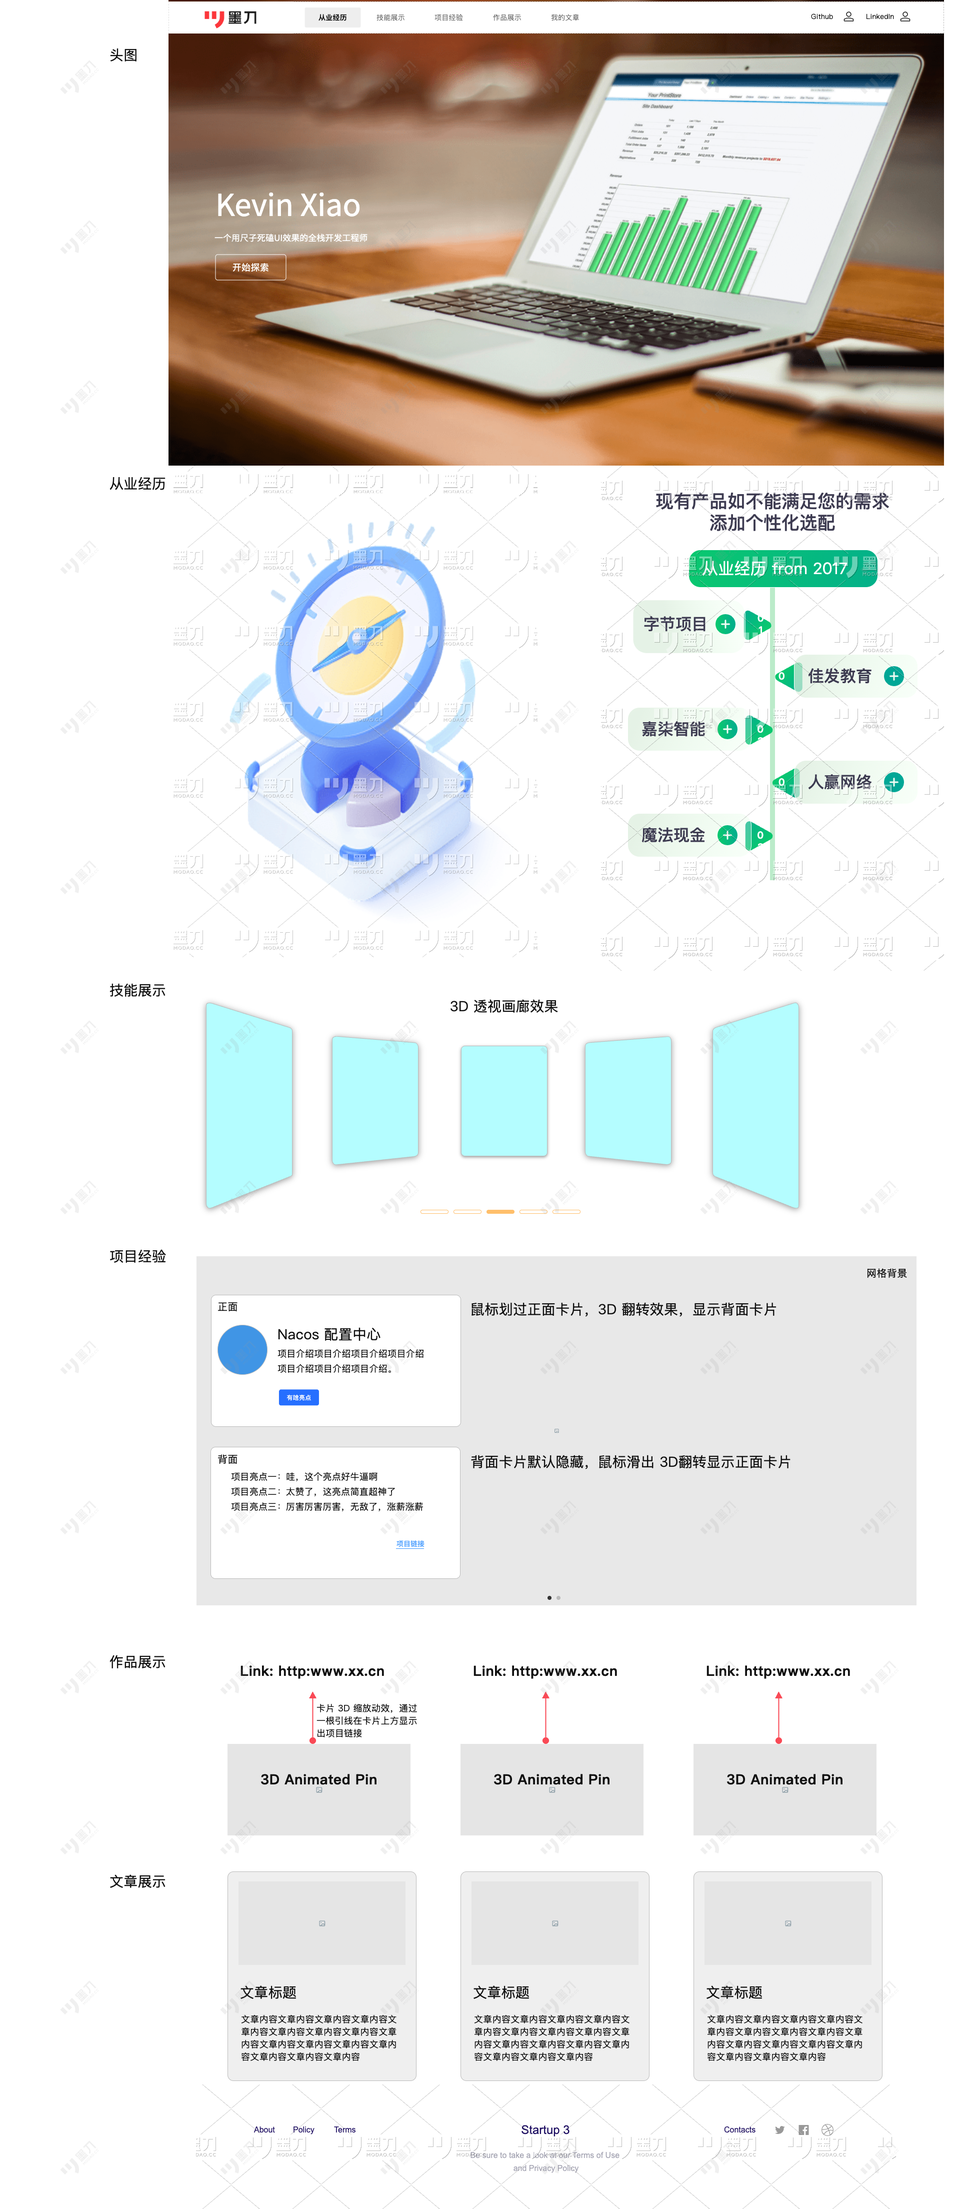
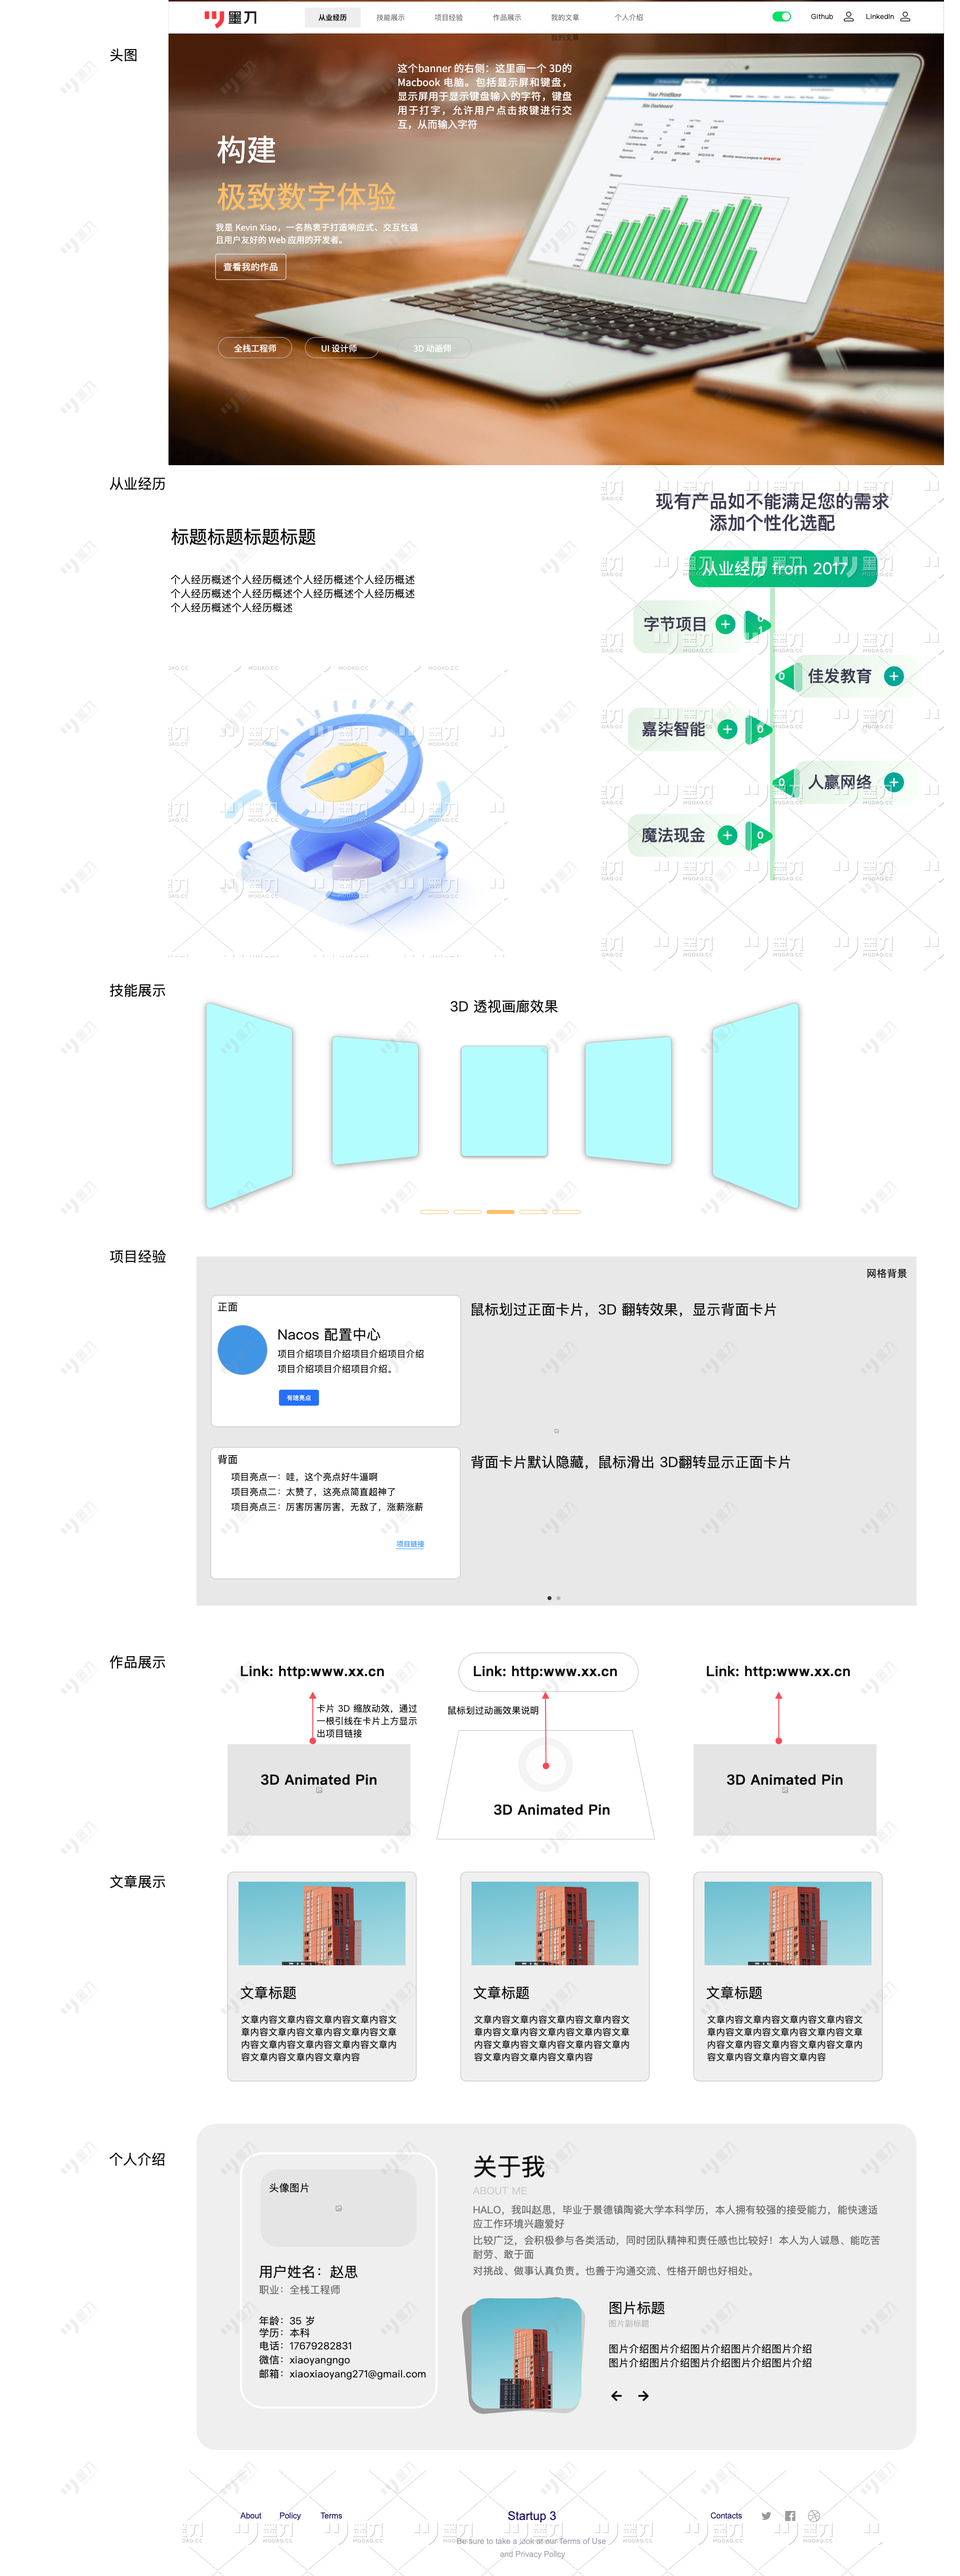
docs: add about me

diff --git a/personal-website-introduction.md b/personal-website-introduction.md
@@ -87,9 +87,15 @@
 ## 五、项目代办
 
 - [ x ] 项目灵感收集：收集心仪的风格、配色、设计、功能点等灵感。
-- [ x] 项目风格设计：配色
-- [ ] 项目页面原型设计
-- [ ] 项目初始化
+- [ x ] 项目风格设计：配色
+- [ x ] 项目页面原型设计
+- [ x ] 项目初始化：创建项目仓库，完成基础配置。
+- [ ] 头图键盘动效和 Keven Xiao 的关联和强化
+- [ ] 从业经历时钟换成日历，和时间轴 Hover 产品交互
+- [ ] 网站真实数据替换
+- [ ] 网站添加图片
+- [ ] SEO，百度、谷歌搜索引擎优化
+- [ ] 个人介绍模块：丰富你的形象，包括个人介绍、个人爱好、个人经历等。
 
 ## 六、独立项目 Idea
 
@@ -108,23 +114,27 @@
 
 需求：帮我开发一个前端开发工程师的个人网站，这个网站需要支持手机端访问也就是响应式。
 
-页面和模块：总共一个页面，按照顺序有几个模块：header 导航，头图，从业经历，技能展示，项目经验，作品展示，我的文章，footer 网站信息。
+页面和模块：总共一个页面，按照顺序有几个模块：header 导航，头图，从业经历，技能展示，项目经验，作品展示，我的文章，个人介绍，footer 网站信息。
 
 技术栈：Next.js 16 + TypeScript + Tailwind CSS + Framer Motion。
 
 网站需要具备的效果：丰富的动效，页面滚动时需要有视差滚动效果，模块需要有入场和出场动效，元素需要有 hover 效果。
+
+网站风格：简洁大气；配色：主色#FB923C，网站整体是科技暗黑风格的。
 
 模块布局文字描述：
 
 1. 头图：需要设计一个通栏涵盖 header 的网格线背景，左侧是个人基本信息介绍，右侧是一个 3D 键盘浮动的效果，鼠标 hover 到键盘的某个按键上，按键会有被按下敲击的效果，鼠标离开则恢复。
 2. 从业经历：左侧是一个 3D 的时钟效果，时钟的指针会一圈一圈的旋转，大概占据一半宽度，右侧是一个酷炫的时间轴用来显示过往工作的公司。
 3. 技能展示：总共放 5 个技能卡片，卡片的样式和相框差不多，卡片内容是：技能名称，技能介绍，熟练度和进度条。动效是可以左右滑动切换的 3D 画廊效果，有透视的感觉哦。
-4. 项目经验：这个模块有个流行划过的粒子动效作为模块大背景，放 6 个卡片展示项目经验，正面：左侧显示项目的效果图头像，右侧显示项目名称和项目介绍，背面：3 - 5 条的项目亮点。卡片支持鼠标划过 3D 翻转查看背面。
+4. 项目经验：这个模块有个流星划过的粒子动效作为模块大背景，放 6 个卡片展示项目经验，正面：左侧显示项目的效果图头像，右侧显示项目名称和项目介绍，背面：3 - 5 条的项目亮点。卡片支持鼠标划过 3D 翻转查看背面。
 5. 作品展示：横向放置 3 个横向的长方形卡片，每个卡片显示作品名称和作品介绍，鼠标划过，卡片 3D 缩放带有透视的动效，卡片上方展示一根引线，引线上方显示出项目链接。
 6. 文章展示：横向放置 5 个竖向的长方形的卡片，卡片内上部是文章封面图，下部是文章标题和文章概要。动效：鼠标划过卡片会跟随鼠标 3D 晃动的效果。
 7. header: 无背景底色，左侧是作者姓名和几个模块的导航，右侧是 GitHub 和领英的图标。header 固定在顶部。
-8. footer: 底部居中显示网站的备案号和作者姓名，换行显示
+8. 个人介绍：左右布局，左侧：一张竖向长方形卡片，卡片内上面是个人头像，下面是个人基本信息：姓名、职业、年龄、学历、电话、微信、邮箱；右侧：上下布局：上面是个人介绍，下面是个人业务爱好的图片展示，每个图片是堆叠在一起的，每次点击切换图片底层的图片都会旋转一点角度，堆叠图片的右侧是文字信息，如图片标题和副标题，图片的介绍。
+9. footer: 底部居中显示网站的备案号和作者姓名，换行显示
    GitHub 和领英的图标，右侧浮动显示一个小火箭返回顶部
+   邮箱：邮箱的图标和邮箱地址，点击可以复制邮箱地址。
 
 原型图：
 ![原型图](./images/home.png)
